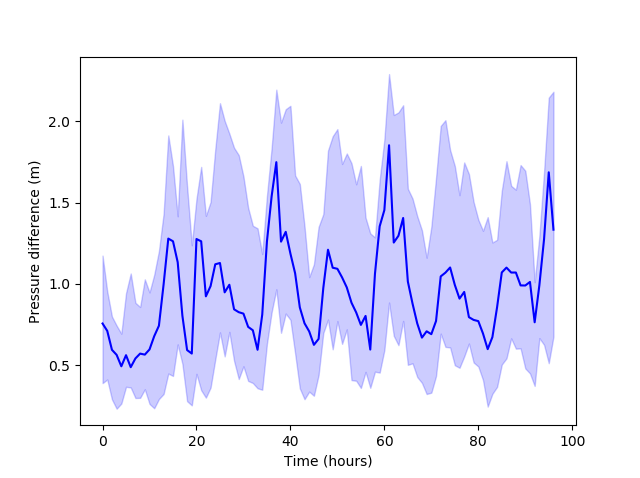
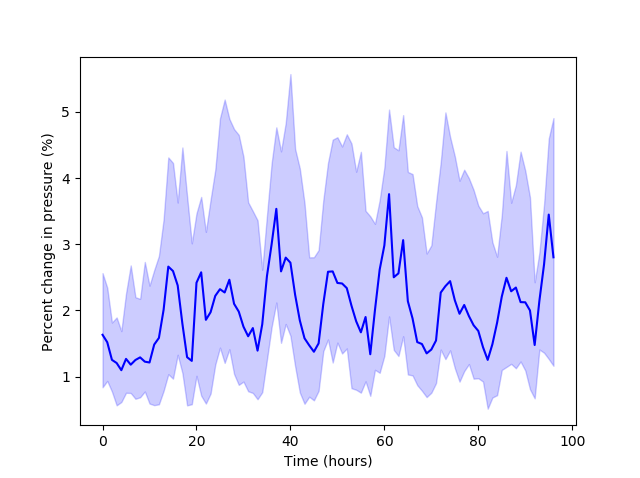
Doc update

diff --git a/documentation/morph.rst b/documentation/morph.rst
@@ -5,7 +5,7 @@
 Network morphology
 ======================================
 
-The water network model morphology can be modified is several ways using WNTR, including
+The water network model morphology can be modified in several ways using WNTR, including
 network skeletonization, 
 modifying node coordinates, and 
 splitting or breaking pipes.
@@ -16,7 +16,8 @@ The goal of network skeletonization is to reduce the size of a water network mod
 Network skeletonization in WNTR follows the procedure outlined in [WCSG03]_.  
 The skeletonization process retains all tanks, reservoirs, valves, and pumps, along with all junctions and pipes that are associated with controls.
 Junction demands and demand patterns are retained in the skeletonized model, as described below.
-Pipes that falls below a user defined pipe diameter threshold are candidates for removal based on three operations, including:
+Merged pipes are assigned equivalent properties for diameter, length, and roughness to approximate the updated system behavoir.
+Pipes that fall below a user defined pipe diameter threshold are candidates for removal based on three operations, including:
 
 1. **Branch trimming**: Dead-end pipes that are below the pipe diameter threshold are removed from the model (:numref:`fig-branch-trim`).  
    The demand and demand pattern assigned to the dead-end junction is moved to the junction that is retained in the model.  
@@ -41,8 +42,8 @@ Pipes that falls below a user defined pipe diameter threshold are candidates for
    :math:`D_{m}` is the diameter of the merged pipe, :math:`D_{1}` and :math:`D_{2}` are the diameters of the original pipes, 
    :math:`L_{m}` is the length of the merged pipe, :math:`L_{1}` and :math:`L_{2}` are the lengths of the original pipes, 
    :math:`C_{m}` is the Hazen-Williams roughness coefficient of the merged pipe, and :math:`C_{1}` and :math:`C_{2}` are the Hazen-Williams roughness coefficients of the original pipes. 
-   Note, if the original pipes have the same diameter, :math:`D_{m}` is based on the pipe name that comes first in alphabetical order.
    Minor loss and pipe status of the merged pipe are set equal to the minor loss and pipe status for the pipe selected for max diameter.
+   Note, if the original pipes have the same diameter, :math:`D_{m}` is based on the pipe name that comes first in alphabetical order.
    
 	.. _fig-series-merge:
 	.. figure:: figures/skel_series.png
@@ -63,8 +64,8 @@ Pipes that falls below a user defined pipe diameter threshold are candidates for
    :math:`D_{m}` is the diameter of the merged pipe, :math:`D_{1}` and :math:`D_{2}` are the diameters of the original pipes, 
    :math:`L_{m}` is the length of the merged pipe, :math:`L_{1}` and :math:`L_{2}` are the lengths of the original pipes, 
    :math:`C_{m}` is the Hazen-Williams roughness coefficient of the merged pipe, and :math:`C_{1}` and :math:`C_{2}` are the Hazen-Williams roughness coefficients of the original pipes. 
-   Note, if the original pipes have the same diameter, :math:`D_{m}` is based on the pipe name that comes first in alphabetical order.
    Minor loss and pipe status of the merged pipe are set equal to the minor loss and pipe status for the pipe selected for max diameter.
+   Note, if the original pipes have the same diameter, :math:`D_{m}` is based on the pipe name that comes first in alphabetical order.
    
    .. _fig-parallel-merge:
    .. figure:: figures/skel_parallel.png
@@ -83,20 +84,22 @@ The user can specify if branch trimming, series pipe merge, and/or parallel pipe
 The user can also specify a maximum number of cycles to include in the process.
 
 Results from network skeletonization include the skeletonized water network model and (optionally) 
-a "skeletonization map" which maps original network nodes to skeletonized network nodes.  
+a "skeletonization map" which maps original network nodes to merged nodes that are represented in the skeletonized network.  
 The skeletonization map is a dictionary where 
 the keys are original network nodes and 
-the values are a list of nodes in the skeletonized network that were merged as a result of skeletonization operations.  
-For example, if 'Junction 1' was merged into 'Junction 2' as 
+the values are a list of nodes in the network that were merged as a result of skeletonization operations.  
+For example, if 'Junction 1' was merged into 'Junction 2' and 'Junction 3' remained unchanged as
 part of network skeletonization, then the skeletonization map would contain the following information::
 
 	{
 	'Junction 1': [],
-	'Junction 2': ['Junction 1', 'Junction 2']
+	'Junction 2': ['Junction 1', 'Junction 2'],
+	'Junction 3': ['Junction 3']
 	}
 
-This map indicates that the skeletonized network does not contain 'Junction 1', and that 'Junction 2' in the 
-skeletonized network is the merged product of the original 'Junction 1' and 'Junction 2'.  
+This map indicates that the skeletonized network does not contain 'Junction 1', 'Junction 2' in the 
+skeletonized network is the merged product of the original 'Junction 1' and 'Junction 2', and 
+'Junction 3' was not changed. 
 'Junction 2' in the skeletonized network will therefore contain demand and demand patterns from 
 the original 'Junction 1' and 'Junction 2'.
 
@@ -105,7 +108,7 @@ The skeletonization procedure reduces the number of nodes in the network from ap
 After simulating hydraulics on both the original and skeletonized network, node pressure can be compared to 
 determine how skeletonization impacts system behavoir. :numref:`fig-skel-hydraulics` shows the median (dark blue line) and 
 the 25th to 75th percentile (shaded region) for node pressure throughout the network over a 4 day simulation.
-Pressure differences are generally less than 2 meters in this example.
+Pressure differences are generally less than 5% in this example.
 
 .. doctest::
     :hide:
@@ -141,7 +144,7 @@ Pressure differences are generally less than 2 meters in this example.
     >>> results_skel = sim.run_sim()
     >>> pressure_orig = results_original.node['pressure'].loc[:,skel_wn.junction_name_list]
     >>> pressure_skel = results_skel.node['pressure'].loc[:,skel_wn.junction_name_list]
-    >>> pressure_diff = abs(pressure_orig - pressure_skel)
+    >>> pressure_diff = (abs(pressure_orig - pressure_skel)/pressure_orig)*100
 
 .. _fig-skel-hydraulics:
 .. figure:: figures/skel_hydraulics.png
